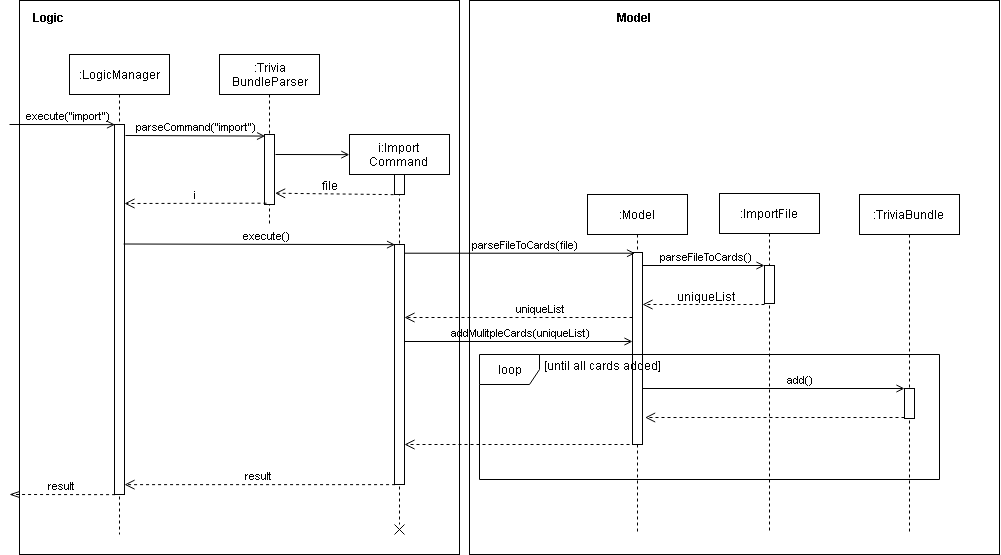
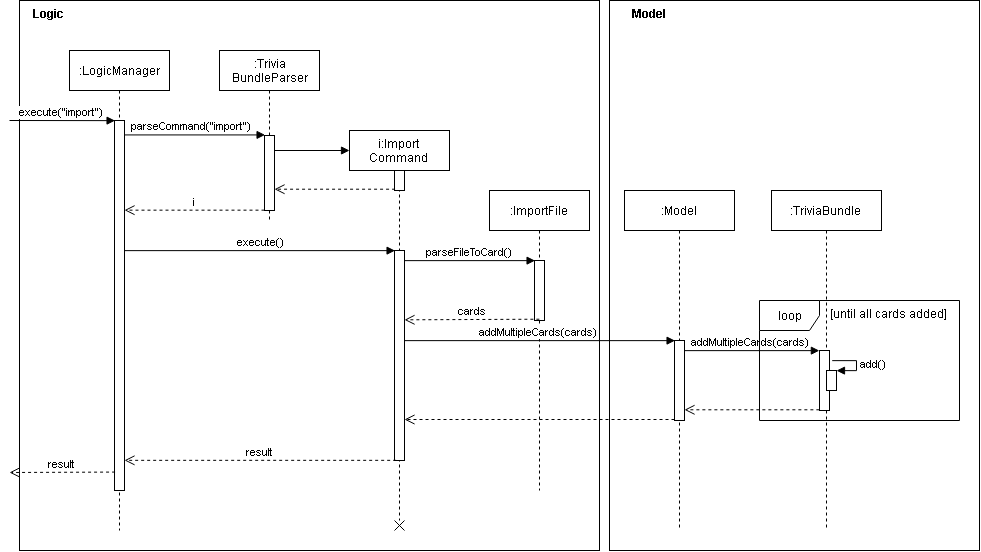
Rebuild pages at a6798e6b33cdcd5a7111d08381d8ecc9e4d542a2

diff --git a/DeveloperGuide.html b/DeveloperGuide.html
@@ -780,19 +780,17 @@ Additionally, the import mechanism implements the following operations:</p>
 <div class="ulist">
 <ul>
 <li>
-<p><code>ImportFile#parseFileToCards()</code>&#8201;&#8212;&#8201;Parse file in a specific format into a unique list of cards.</p>
+<p><code>ImportFile#parseFileToCard</code>&#8201;&#8212;&#8201;Parses a plain text file into a unique list of cards.</p>
 </li>
 <li>
 <p><code>TriviaBundle#haveAnyCard()</code>&#8201;&#8212;&#8201;Checks if the cards to add contain any duplicated cards already in the <code>TriviaBundle</code>.</p>
 </li>
 <li>
-<p><code>TriviaBundle#addMultipleCards()</code>&#8201;&#8212;&#8201;Adds multiple cards into the <code>TriviaBundle</code> at once.</p>
+<p><code>TriviaBundle#addMultipleCards()</code>&#8201;&#8212;&#8201;Adds multiple cards into the <code>TriviaBundle</code> at once.
+The 2 <code>TriviaBundle</code> operations are exposed in the Model interface as
+<code>Model#haveAnyCard()</code> and <code>Model#addMultipleCards()</code> respectively.</p>
 </li>
 </ul>
-</div>
-<div class="paragraph">
-<p>These operations are exposed in the Model interface as <code>Model#parseFileToCards()</code>,
-<code>Model#haveAnyCard()</code>, <code>Model#addMultipleCards()</code> respectively.</p>
 </div>
 <div class="paragraph">
 <p>The following activity diagram summarizes what happens when a user executes the import command.</p>
@@ -822,19 +820,22 @@ Additionally, the import mechanism implements the following operations:</p>
 <li>
 <p>the import file is readable</p>
 </li>
+<li>
+<p>the import file text is in the correct format</p>
+</li>
 </ul>
 </div>
 <div class="paragraph">
 <p>Step 3: Once verified, the import file is parsed to form a unique list of cards that is stored in <code>UniqueCardList</code>.</p>
 </div>
 <div class="paragraph">
-<p>Step 4: Every card in the unique card list is checked against the existing list of cards in <code>TriviaBundle</code> for duplicates.</p>
+<p>Step 4: <code>TriviaBundle#haveAnyCard()</code> checks every card in the unique card list against the existing list of cards in <code>TriviaBundle</code> for duplicates.</p>
 </div>
 <div class="paragraph">
-<p>Step 5: The unique card list is then added into <code>TriviaBundle</code>. The number of cards, the cards imported are displayed to the user for verification.<br></p>
+<p>Step 5: The unique card list is then added into <code>TriviaBundle</code> via <code>TriviaBundle#addMultipleCards()</code>. The number of cards and the cards imported are displayed to the user for verification.<br></p>
 </div>
 <div class="paragraph">
-<p>The sequence diagram below shows the import of multiple cards.</p>
+<p>The sequence diagram below describes the import of multiple cards.</p>
 </div>
 <div class="imageblock">
 <div class="content">
@@ -845,6 +846,94 @@ Additionally, the import mechanism implements the following operations:</p>
 <div class="sect3">
 <h4 id="design-considerations-2"><a class="link" href="#design-considerations-2">3.2.2. Design Considerations</a></h4>
 <div class="sect4">
+<h5 id="aspect-need-for-pre-import-preview"><a class="link" href="#aspect-need-for-pre-import-preview">Aspect: Need for pre-import preview</a></h5>
+<div class="ulist">
+<ul>
+<li>
+<p><strong>Alternative 1: (current implementation)</strong> Single step to import cards from a text file.</p>
+<div class="ulist">
+<ul>
+<li>
+<p>Pros:</p>
+<div class="ulist">
+<ul>
+<li>
+<p>A single command can be executed quickly for an import.</p>
+</li>
+<li>
+<p>Post import edits can be done using existing commands such as <code>edit</code>, <code>delete</code>, etc.</p>
+</li>
+</ul>
+</div>
+</li>
+<li>
+<p>Con:</p>
+<div class="ulist">
+<ul>
+<li>
+<p>A single formatting error in the text file will result in an import failure.</p>
+</li>
+</ul>
+</div>
+</li>
+</ul>
+</div>
+</li>
+<li>
+<p><strong>Alternative 2:</strong> 'Stages' the import file by first previewing the imported cards to the user. The actual import is done upon confirmation.</p>
+<div class="ulist">
+<ul>
+<li>
+<p>Implementation details:<br></p>
+<div class="ulist">
+<ul>
+<li>
+<p>Given below is a class diagram describing the interactions for this import mechanism.<br></p>
+<div class="imageblock">
+<div class="content">
+<img src="images/AlternativeImportClassDiagram.png" alt="AlternativeImportClassDiagram" width="800">
+</div>
+</div>
+</li>
+<li>
+<p>The <code>Format</code> class verifies the formatting of the text file, marks and displays the errors of the text file within the application for editing.</p>
+<div class="paragraph">
+<p>Each time an edit is detected, the <code>Format</code> class will verify the text file and the <code>FileParser</code> will attempt to parse the file into a <code>UniqueCardList</code> for import.</p>
+</div>
+<div class="paragraph">
+<p>The <code>ObservableFile</code> interface allows the UI component to update the preview of the cards each time the file is edited without a direct dependency to it.</p>
+</div>
+</li>
+</ul>
+</div>
+</li>
+<li>
+<p>Pro:</p>
+<div class="ulist">
+<ul>
+<li>
+<p>Allows the user to identify errors in formatting and correct them directly in the application.</p>
+</li>
+</ul>
+</div>
+</li>
+<li>
+<p>Con:</p>
+<div class="ulist">
+<ul>
+<li>
+<p>An additional step (command) is required to successfully import the cards into the application.</p>
+</li>
+</ul>
+</div>
+</li>
+</ul>
+</div>
+</li>
+</ul>
+</div>
+</div>
+<div class="sect4">
 <h5 id="aspect-how-import-executes"><a class="link" href="#aspect-how-import-executes">Aspect: How import executes</a></h5>
 <div class="ulist">
 <ul>
@@ -853,23 +942,51 @@ Additionally, the import mechanism implements the following operations:</p>
 <div class="ulist">
 <ul>
 <li>
-<p>Pros: Less IO intensive as only one write to file is needed.</p>
-</li>
+<p>Pro:</p>
+<div class="ulist">
+<ul>
 <li>
-<p>Cons: May have heap memory issue if large amounts of cards are stored temporarily.</p>
+<p>Less IO intensive as only one write to file is needed.</p>
 </li>
 </ul>
 </div>
 </li>
 <li>
-<p><strong>Alternative 2:</strong> Writes a card to xml file after each card is added.</p>
+<p>Con:</p>
 <div class="ulist">
 <ul>
 <li>
-<p>Pros: Easy to implement.</p>
+<p>May have heap memory issue if large amounts of cards are stored temporarily.</p>
+</li>
+</ul>
+</div>
+</li>
+</ul>
+</div>
 </li>
 <li>
-<p>Cons: May have performance issue when large amount of cards are added.</p>
+<p><strong>Alternative 2:</strong> Writes a card to a xml file after each card is added.</p>
+<div class="ulist">
+<ul>
+<li>
+<p>Pro:</p>
+<div class="ulist">
+<ul>
+<li>
+<p>Easy to implement.</p>
+</li>
+</ul>
+</div>
+</li>
+<li>
+<p>Con:</p>
+<div class="ulist">
+<ul>
+<li>
+<p>May have performance issue when large amount of cards are added.</p>
+</li>
+</ul>
+</div>
 </li>
 </ul>
 </div>
@@ -886,23 +1003,51 @@ Additionally, the import mechanism implements the following operations:</p>
 <div class="ulist">
 <ul>
 <li>
-<p>Pros: Allows user to undo/ redo import as import is viewed by <code>VersionedAddressBook</code> as a single command.</p>
-</li>
+<p>Pro:</p>
+<div class="ulist">
+<ul>
 <li>
-<p>Cons: May have memory performance issue as multiple cards are stored temporarily in the <code>TriviaBundle</code>.</p>
+<p>Allows user to undo/ redo import as import is viewed by <code>VersionedAddressBook</code> as a single command.</p>
 </li>
 </ul>
 </div>
 </li>
 <li>
-<p><strong>Alternative 2 (current choice):</strong> Tokenize string based on AddCommand input format.</p>
+<p>Con:</p>
 <div class="ulist">
 <ul>
 <li>
-<p>Pros: Easy to implement as it allows reuse of add command functions.</p>
+<p>May have memory performance issue as multiple cards are stored temporarily in the <code>TriviaBundle</code>.</p>
+</li>
+</ul>
+</div>
+</li>
+</ul>
+</div>
 </li>
 <li>
-<p>Cons: Unable to undo/ redo import of all cards as the import command is essentially multiple add commands.</p>
+<p><strong>Alternative 2:</strong> Tokenize string based on AddCommand input format.</p>
+<div class="ulist">
+<ul>
+<li>
+<p>Pro:</p>
+<div class="ulist">
+<ul>
+<li>
+<p>Easy to implement as it allows reuse of add command functions.</p>
+</li>
+</ul>
+</div>
+</li>
+<li>
+<p>Con:</p>
+<div class="ulist">
+<ul>
+<li>
+<p>Unable to undo/ redo import of all cards as the import command is essentially multiple add commands.</p>
+</li>
+</ul>
+</div>
 </li>
 </ul>
 </div>
@@ -2138,4 +2283,4 @@ Expected: Similar to previous.</p>
 </div>
 </div>
 </div>
-</div></div><div id="footer"><div class="container"><div id="footer-text">Last updated 2018-11-01 07:55:52 UTC</div></div></div></body></html>
+</div></div><div id="footer"><div class="container"><div id="footer-text">Last updated 2018-11-01 11:10:29 UTC</div></div></div></body></html>

diff --git a/ContactUs.html b/ContactUs.html
@@ -10,4 +10,4 @@ noticed bugs or have suggestions on how to improve.</p>
 <p><strong>Contributing</strong> : We welcome pull requests. Follow the process described <a href="https://github.com/oss-generic/process">here</a></p>
 </li>
 </ul>
-</div></div><div id="footer"><div class="container"><div id="footer-text">Last updated 2018-11-01 07:55:52 UTC</div></div></div></body></html>
+</div></div><div id="footer"><div class="container"><div id="footer-text">Last updated 2018-11-01 11:10:29 UTC</div></div></div></body></html>

diff --git a/team/chuajunhui.html b/team/chuajunhui.html
@@ -461,4 +461,4 @@ If the <code>currentStatePointer</code> is at index <code>addressBookStateList.s
 <p><em>{Optionally, you may include other projects in your portfolio.}</em></p>
 </div>
 </div>
-</div></div><div id="footer"><div class="container"><div id="footer-text">Last updated 2018-11-01 07:55:52 UTC</div></div></div></body></html>
+</div></div><div id="footer"><div class="container"><div id="footer-text">Last updated 2018-11-01 11:10:29 UTC</div></div></div></body></html>

diff --git a/team/hozongsien.html b/team/hozongsien.html
@@ -461,4 +461,4 @@ If the <code>currentStatePointer</code> is at index <code>addressBookStateList.s
 <p><em>{Optionally, you may include other projects in your portfolio.}</em></p>
 </div>
 </div>
-</div></div><div id="footer"><div class="container"><div id="footer-text">Last updated 2018-11-01 07:55:52 UTC</div></div></div></body></html>
+</div></div><div id="footer"><div class="container"><div id="footer-text">Last updated 2018-11-01 11:10:29 UTC</div></div></div></body></html>

diff --git a/team/kohjunwei.html b/team/kohjunwei.html
@@ -461,4 +461,4 @@ If the <code>currentStatePointer</code> is at index <code>addressBookStateList.s
 <p><em>{Optionally, you may include other projects in your portfolio.}</em></p>
 </div>
 </div>
-</div></div><div id="footer"><div class="container"><div id="footer-text">Last updated 2018-11-01 07:55:52 UTC</div></div></div></body></html>
+</div></div><div id="footer"><div class="container"><div id="footer-text">Last updated 2018-11-01 11:10:29 UTC</div></div></div></body></html>

diff --git a/team/shaniceabigal.html b/team/shaniceabigal.html
@@ -461,4 +461,4 @@ If the <code>currentStatePointer</code> is at index <code>addressBookStateList.s
 <p><em>{Optionally, you may include other projects in your portfolio.}</em></p>
 </div>
 </div>
-</div></div><div id="footer"><div class="container"><div id="footer-text">Last updated 2018-11-01 07:55:52 UTC</div></div></div></body></html>
+</div></div><div id="footer"><div class="container"><div id="footer-text">Last updated 2018-11-01 11:10:29 UTC</div></div></div></body></html>

diff --git a/team/zihengxiu.html b/team/zihengxiu.html
@@ -461,4 +461,4 @@ If the <code>currentStatePointer</code> is at index <code>addressBookStateList.s
 <p><em>{Optionally, you may include other projects in your portfolio.}</em></p>
 </div>
 </div>
-</div></div><div id="footer"><div class="container"><div id="footer-text">Last updated 2018-11-01 07:55:52 UTC</div></div></div></body></html>
+</div></div><div id="footer"><div class="container"><div id="footer-text">Last updated 2018-11-01 11:10:29 UTC</div></div></div></body></html>

diff --git a/UsingGradle.html b/UsingGradle.html
@@ -255,4 +255,4 @@ See <code>build.gradle</code> &#8594; <code>allprojects</code> &#8594; <code>dep
 </ul>
 </div>
 </div>
-</div></div><div id="footer"><div class="container"><div id="footer-text">Last updated 2018-11-01 07:55:52 UTC</div></div></div></body></html>
+</div></div><div id="footer"><div class="container"><div id="footer-text">Last updated 2018-11-01 11:10:29 UTC</div></div></div></body></html>

diff --git a/UsingNetlify.html b/UsingNetlify.html
@@ -123,4 +123,4 @@ The publish directory is the directory in which the built HTML documentation res
 </ol>
 </div>
 </div>
-</div></div><div id="footer"><div class="container"><div id="footer-text">Last updated 2018-11-01 07:55:52 UTC</div></div></div></body></html>
+</div></div><div id="footer"><div class="container"><div id="footer-text">Last updated 2018-11-01 11:10:29 UTC</div></div></div></body></html>

diff --git a/UsingCoveralls.html b/UsingCoveralls.html
@@ -96,4 +96,4 @@ If you have not set up Travis CI, see <a href="UsingTravis.html">UsingTravis.ado
 </ol>
 </div>
 </div>
-</div></div><div id="footer"><div class="container"><div id="footer-text">Last updated 2018-11-01 07:55:52 UTC</div></div></div></body></html>
+</div></div><div id="footer"><div class="container"><div id="footer-text">Last updated 2018-11-01 11:10:29 UTC</div></div></div></body></html>

diff --git a/UsingTravis.html b/UsingTravis.html
@@ -280,4 +280,4 @@ Suggested change: Remove the codacy badge from <code>README</code>.</p>
 </div>
 </div>
 </div>
-</div></div><div id="footer"><div class="container"><div id="footer-text">Last updated 2018-11-01 07:55:52 UTC</div></div></div></body></html>
+</div></div><div id="footer"><div class="container"><div id="footer-text">Last updated 2018-11-01 11:10:29 UTC</div></div></div></body></html>

diff --git a/UsingCheckstyle.html b/UsingCheckstyle.html
@@ -91,4 +91,4 @@ Restart the IDE to complete the installation.</p>
 </ul>
 </div>
 </div>
-</div></div><div id="footer"><div class="container"><div id="footer-text">Last updated 2018-11-01 07:55:52 UTC</div></div></div></body></html>
+</div></div><div id="footer"><div class="container"><div id="footer-text">Last updated 2018-11-01 11:10:29 UTC</div></div></div></body></html>
